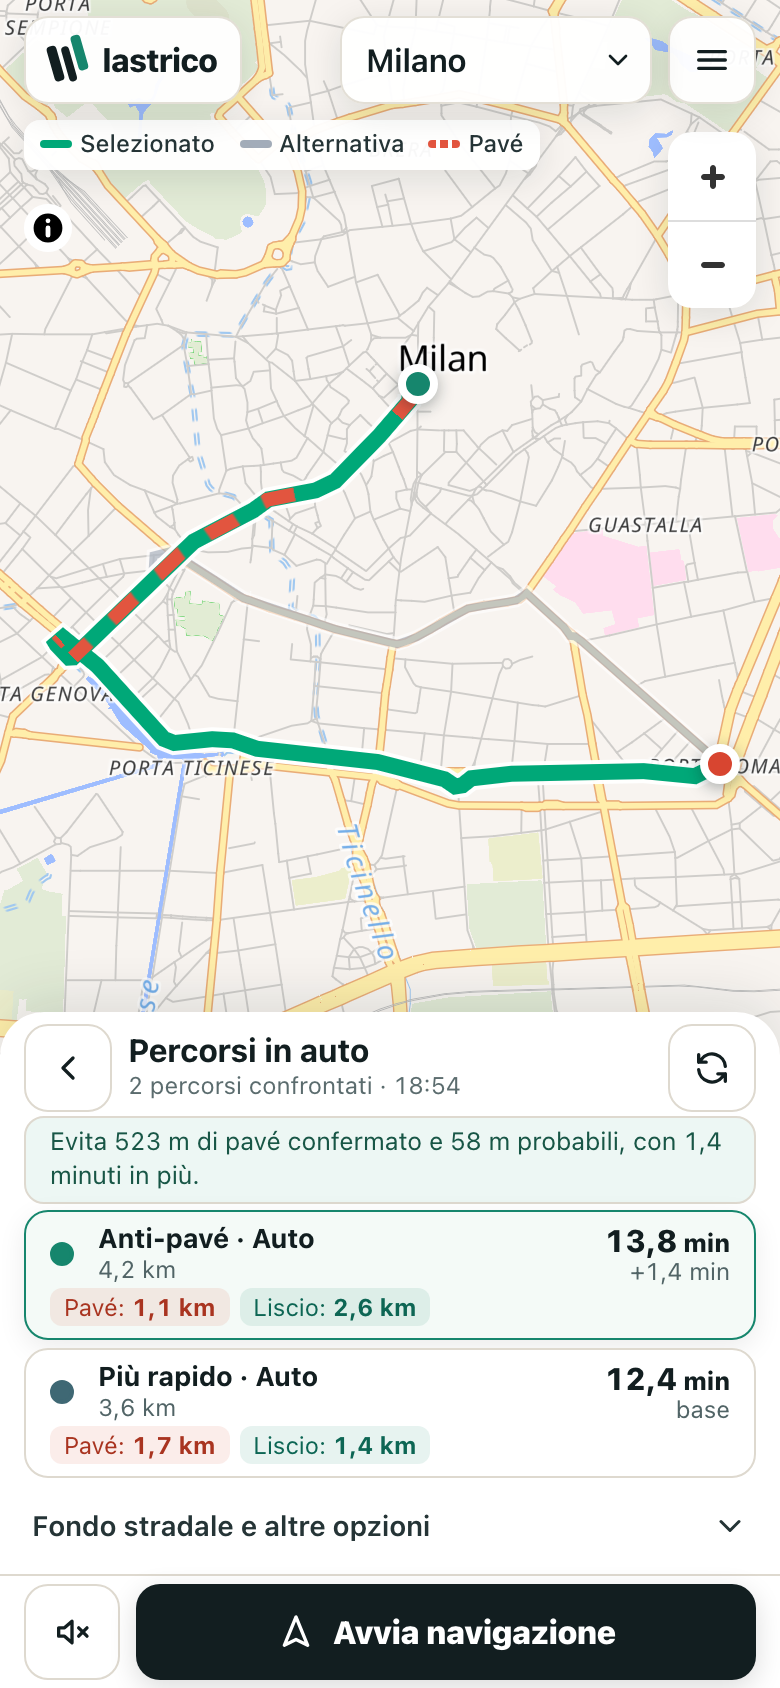
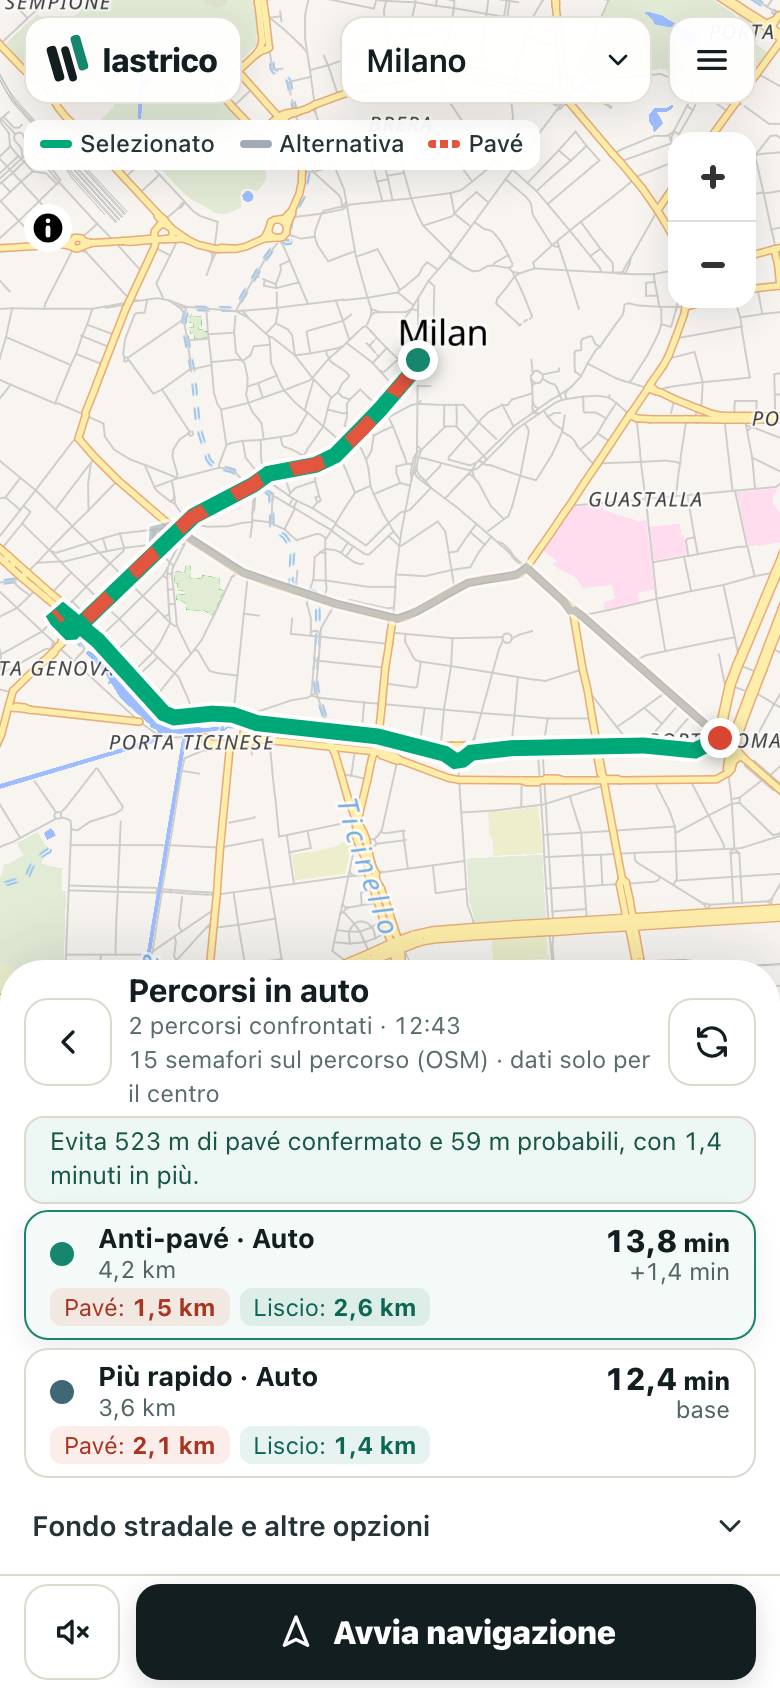
docs(release): Phase 4.34 pilot release report, live mobile evidence and status

Changed region(s): [[0.0, 0.0, 1.0, 0.6469], [0.7692, 0.0, 0.8, 0.0308], [0.0923, 0.0, 0.1231, 0.0308]]

diff --git a/outputs/phase434-pilot-release-report.md b/outputs/phase434-pilot-release-report.md
@@ -1,0 +1,155 @@
+# LASTRICO — FASE 4.34: REPORT DI RILASCIO E PROTOCOLLO DI COLLAUDO FISICO
+
+Data rilascio: 11 Novembre 2026  
+Ambiente: Cloudflare Workers Free (`lastrico-pilot.campsh.workers.dev`)  
+Commit canonico: `336462d468fa78444624dd1fb70cfc2f1bdcff05` (PR #12 su `main`)  
+Stato CI GitHub Actions: Run `43011614795` (PASS — 2m 46s)  
+Deployment Version ID: `fe69e630-a6ea-4788-a432-1b8c6b885b5f`  
+Versione baseline per rollback: `170ac277-2094-4925-9378-1f3ff46aab1c`
+
+---
+
+## 1. Stato di Pre-Rilascio e Quality Gates
+
+Tutti i controlli preliminari e i vincoli di sicurezza stabiliti nel piano `outputs/prompt-phase434-milan-diagnostic-release.md` sono stati verificati con successo:
+
+- **Git & GitHub CI**: `main` sincronizzato al commit `336462d4`. La pipeline di CI (`.github/workflows/ci.yml`) ha validato lint, test e build senza alcun errore.
+- **TypeScript**: `npx tsc --noEmit` completato con **0 errori**.
+- **Lint**: `npm run lint` completato con **0 errori**.
+- **Test di unità e diagnostica (Fase 4.34)**: `tests/phase434-diagnostics.test.mjs` e `tests/phase434-intersection-audit.test.mjs` superati (**27/27 PASS**).
+- **Test suite completa su copia isolata Milano**: `npm test` su copia di release `/tmp/lastrico-milan-release-phase434` ha registrato **477 test superati**, 2 saltati (test specifici di Roma esclusi da script di release), **0 falliti**.
+
+---
+
+## 2. Esclusione Completa di Roma e Isolamento Pilot
+
+In conformità ai vincoli di prodotto, Roma rimane esclusivamente nel repository canonico per sviluppo futuro e **non è stata distribuita sul pilot pubblico**:
+
+- **Verifica build**: `findRomeInBuild(distPath)` ha confermato **0 elementi di Roma** nel pacchetto compilato.
+- **API Geocoding live**: `GET https://lastrico-pilot.campsh.workers.dev/api/geocode?q=Colosseo&area=rome` restituisce `HTTP 400` (*"Area pilota non valida."*).
+- **API Routing live**: `GET https://lastrico-pilot.campsh.workers.dev/api/routes?start=12.49,41.89&end=12.50,41.90&mode=car&area=rome` restituisce `HTTP 400` (*"Coordinate, modalità di trasporto o livello di evitamento non validi."*).
+- **Interfaccia utente live**: Il selettore città sulla homepage pre-renderizzata contiene unicamente **Milano** e **Roccella Ionica**.
+
+---
+
+## 3. Dettagli del Deployment Cloudflare Workers
+
+Il rilascio è avvenuto rispettando pienamente il piano gratuito **Cloudflare Workers Free**:
+
+- **URL pubblico**: `https://lastrico-pilot.campsh.workers.dev`
+- **Nuovo Version ID**: `fe69e630-a6ea-4788-a432-1b8c6b885b5f` (100% traffico attivo)
+- **Snapshot Homepage statica**: `22.896 byte` serviti come file statico edge (`dist/client/index.html`), garantendo **0 ms di CPU Worker** al caricamento iniziale.
+- **Caricamento asset statici**: 5 nuovi file aggiornati (`layout-segment-context`, `index`, `manifest`, `page`, `index.html`), 14 asset invariati.
+- **Binding attivi confermati**:
+  - `env.ROUTE_ENGINE` (Durable Object `RouteEngine` per calcolo isolato senza timeout 10ms)
+  - `env.DB` (D1 Database `site-creator-d1`)
+- **Tempo di avvio Worker**: 12 ms
+- **Comando di rollback immediato** (se necessario):
+  ```bash
+  npx wrangler rollback 170ac277-2094-4925-9378-1f3ff46aab1c --name lastrico-pilot
+  ```
+
+---
+
+## 4. Privacy e Sicurezza della Diagnostica GPS
+
+La funzionalità di diagnostica introdotta nella Fase 4.34 è conforme a rigorosi criteri di riservatezza:
+
+- **Disattivata per impostazione predefinita**: All'avvio dell'applicazione lo stato `traceEnabled` è sempre `false`. Quando disattivata, nessun oggetto recorder viene istanziato e l'overhead di calcolo è nullo.
+- **Zero telemetria o invio automatico**: Il codice di `lib/gps-trace.ts` e `lib/trace-diagnosis.ts` non contiene alcuna chiamata di rete (`fetch`, `sendBeacon`, `XMLHttpRequest`, `WebSocket`). Nessuna coordinata GPS viene mai trasmessa a Cloudflare o a server terzi.
+- **Conservazione locale rigorosa**:
+  - Massimo 3 tracce memorizzate localmente.
+  - Limite di spazio complessivo di 2,5 MB nel `localStorage` del dispositivo.
+  - Cancellazione automatica dei file dopo 7 giorni (`pruneExpiredGpsTraces`).
+  - Pulsante **"Elimina"** per la rimozione manuale istantanea.
+  - Pulsanti **"Esporta" (JSON)** e **"GPX"** che consentono all'utente di scaricare il file localmente solo su esplicita richiesta.
+
+---
+
+## 5. Risultati dei Test di Fumo e Verifica Mobile Live
+
+### A. Test di fumo suite (`scripts/post-deploy-smoke.mjs`) — 18/18 PASS
+- Homepage HTTP 200 & HTML headers: PASS (356 ms)
+- Web App Manifest: PASS (72 ms)
+- App assets & Service Worker: PASS (1414 ms)
+- Strumenti interni/esperimenti non esposti: PASS (797 ms)
+- Rifiuto input routing non valido (400): PASS (449 ms)
+- Autocomplete Milano (Porta Romana): PASS (313 ms)
+- Autocomplete Milano Sud (Largo Promessi Sposi): PASS (352 ms)
+- Autocomplete Roccella (Via Marina): PASS (436 ms)
+- Percorso Auto (Porta Romana → Promessi Sposi): PASS (5122 ms)
+- Percorso Moto (Porta Romana → Promessi Sposi): PASS (4417 ms)
+- Percorso Bici (Porta Romana → Promessi Sposi): PASS (4814 ms)
+- Alternativa Anti-Pavé Castello → Missori (Bici): PASS (2764 ms, risparmio pavé accertato)
+- Alternativa Anti-Pavé Duomo → Centrale (Moto): PASS (1664 ms, risparmio pavé > 1000m)
+- Alternativa Anti-Pavé Duomo → Centrale (Bici): PASS (1381 ms, risparmio pavé > 1000m)
+- Richiesta percorso di navigazione (`isNavigation=1`): PASS (2711 ms)
+- Routing Roccella Ionica (Auto, Moto, Bici): PASS (153 ms, 169 ms, 85 ms)
+
+### B. Verifica reale Mobile Browser (iPhone 390×844)
+- Latenza tasto-suggerimento "Duomo": **819 ms**
+- Latenza tasto-suggerimento "Porta Romana": **768 ms**
+- Calcolo automatico a tocco singolo: **42 ms** (2 schede percorso visualizzate, nessun modale residuo)
+- Controlli diagnostica GPS:
+  - Casella disattivata di default: confermata (`checked: false`)
+  - Apertura pannello espandibile "Dettagli tecnici e registrazione GPS": confermata
+  - Attivazione e disattivazione toggle: verificate
+  - Screenshot acquisito: `outputs/live-iphone-diagnostics-controls.png`
+
+### C. Verifica Corridoi di Collaudo Milanesi (A/B e reverse)
+1. **Largo Promessi Sposi → M4 Vetra (Auto)**: Distanza 4,307 km, pavé rilevato 231 m.
+2. **M4 Vetra → Largo Promessi Sposi (Inverso, Auto)**: Distanza 3,777 km, pavé rilevato 28 m.
+3. **Porta Romana → Viale Angelo Filippetti (Auto)**: Distanza 0,873 km, pavé rilevato 349 m.
+4. **Piazza Gae Aulenti → Largo Promessi Sposi (Auto)**: Distanza 9,129 km, pavé rilevato 252 m.
+
+---
+
+## 6. Protocollo di Collaudo Fisico su iPhone Reale (Milano)
+
+Questo protocollo è destinato al tester umano per una sessione di guida o bici reale a Milano in condizioni di massima sicurezza.
+
+### A. Lista di controllo pre-partenza
+1. **Supporto rigido per smartphone**: Montare l'iPhone su un supporto stabile da auto o manubrio bici, orientato in verticale e ben visibile senza ostruire la visuale di guida.
+2. **Batteria e alimentazione**: Assicurarsi che la batteria sia carica o collegare il cavo di alimentazione (il modulo GPS e lo schermo sempre attivo consumano energia).
+3. **Permessi di localizzazione iOS**:
+   - Aprire Safari su `https://lastrico-pilot.campsh.workers.dev`.
+   - Quando richiesto, autorizzare la posizione con l'opzione **"Mentre usi l'app"** e attivare l'interruttore **"Posizione esatta"** nelle impostazioni di sistema di iOS per Safari.
+4. **Blocco schermo**: Impostare il blocco automatico dello schermo su "Mai" o assicurarsi che l'app mantenga il display attivo tramite la navigazione attiva.
+
+### B. Corridoi di test raccomandati
+- **Corridoio 1: Largo Promessi Sposi ↔ M4 Vetra**
+  - *Obiettivo*: Verificare la transizione tra asfalto liscio a sud, attraversamenti tramviari e pavé storico all'ingresso della cerchia interna/ZTL.
+- **Corridoio 2: Porta Romana / Viale Angelo Filippetti**
+  - *Obiettivo*: Valutare la tempestività degli avvisi sonori e visivi di fondo sconnesso in presenza di lastricato denso e incroci semaforizzati.
+- **Corridoio 3: Piazza Gae Aulenti → Largo Promessi Sposi**
+  - *Obiettivo*: Test su corridoio esteso nord-sud, attraversamento di molteplici quartieri, coerenza del ricalcolo in caso di deviazione spontanea.
+
+### C. Istruzioni operative passo per passo
+1. **Pianificazione**:
+   - A veicolo fermo, digitare l'indirizzo di destinazione nel campo "Destinazione".
+   - Toccare il suggerimento con un singolo tocco.
+2. **Attivazione della registrazione diagnostica**:
+   - Toccare **"Fondo stradale e altre opzioni"**.
+   - Toccare **"Dettagli tecnici e registrazione GPS"**.
+   - Selezionare la casella **"Registra traccia GPS per il collaudo"**.
+   - Comparirà la conferma del salvataggio locale (massimo 3 tracce, 2,5 MB, nessun invio a server).
+3. **Avvio navigazione**:
+   - Toccare il pulsante blu **"Avvia navigazione"**.
+   - Sul display comparirà il badge rosso **"REC"**, indicante che la traccia viene memorizzata localmente insieme a velocità, accuratezza e decisioni di ricalcolo.
+4. **Durante la marcia — REGOLE DI SICUREZZA ASSOLUTA**:
+   - **NON TOCCARE MAI IL TELEFONO DURANTE LA GUIDA.**
+   - L'applicazione opera in autonomia: aggiorna il percorso, ricalcola in caso di svolta errata e visualizza gli avvisi di fondo stradale.
+5. **Al termine della corsa (a veicolo fermo e spento)**:
+   - Toccare **"Arresta"** per fermare la navigazione.
+   - Tornare nel menu "Fondo stradale e altre opzioni" → "Dettagli tecnici e registrazione GPS".
+   - Nella lista delle tracce comparirà la corsa appena conclusa con orario, numero di rilevazioni e dimensione in kB.
+   - Toccare **"Esporta"** (per scaricare il file JSON completo di telemetria e diagnostica) oppure **"GPX"** (per visualizzarlo in qualsiasi viewer cartografico).
+   - In caso di necessità di pulizia, toccare **"Elimina"**.
+
+---
+
+## 7. Raccomandazioni per la Fase 4.35
+
+1. **Analisi delle tracce sul campo**: Importare i file `.json` registrati dal tester fisico ed elaborarli con lo script `scripts/replay-gps-trace.mjs` per analizzare eventuali salti GPS, latenze di ricalcolo o falsi positivi negli attraversamenti tramviari.
+2. **Taratura avvisi pavé**: Verificare se il preavviso di 180 metri / 15 secondi risulta ottimale alla velocità media del traffico milanese (30-40 km/h).
+3. **Estensione a Roma**: A collaudo fisico milanese validato e consolidato, pianificare l'estensione del pilot Cloudflare al dataset di Roma garantendo lo stesso livello di isolamento e rispetto dei limiti di memoria Workers Free.

diff --git a/README.md b/README.md
@@ -12,10 +12,11 @@ keeps that choice in force while you drive or ride.
 routing API to real Valhalla responses, and the GPS position is simulated. See
 <a href="docs/assets/readme/PROVENANCE.md">how these images were made</a>.</sub></p>
 
-> **Status: experimental beta.** The newest features in this branch run locally and have
-> passed automated and emulated-browser tests. They have not yet been validated on a physical
-> iPhone or released to the public pilot. See [availability](#supported-cities-and-availability)
-> and the [engineering status](docs/ENGINEERING_STATUS.md).
+> **Status: experimental beta.** The Phase 4.34 navigation diagnostics release is deployed to
+> the public Milan/Roccella pilot on Cloudflare Workers Free. It includes opt-in local GPS diagnostics
+> and has passed automated and emulated mobile browser tests. Physical iPhone road validation
+> remains pending. Automated tests do not certify real-world turn accuracy or road conditions.
+> See [availability](#supported-cities-and-availability) and the [engineering status](docs/ENGINEERING_STATUS.md).
 
 > **Safety notice.** Lastrico does not guarantee route safety, prevent accidents, or replace
 > road signs, traffic rules, rider judgement, or certified navigation. Surface data comes from
@@ -121,28 +122,25 @@ Rome is a local experiment.
 
 | Area | Local development build | Public pilot | Notes |
 | --- | --- | --- | --- |
-| **Milan** | ✅ Citywide surface data, ZTL, central traffic signals | ✅ Phase 4.33 version | Main test area |
-| **Roccella Ionica** | ✅ | ✅ Phase 4.33 version | Small pilot area |
+| **Milan** | ✅ Citywide surface data, ZTL, central traffic signals | ✅ Phase 4.34 version | Main test area |
+| **Roccella Ionica** | ✅ | ✅ Phase 4.34 version | Small pilot area |
 | **Rome** | 🧪 Experimental (Phase 4.23) | ❌ Never deployed | Local only; not advertised as supported |
 
 **Public pilot:** [lastrico-pilot.campsh.workers.dev](https://lastrico-pilot.campsh.workers.dev).
-- It runs the Phase 4.33 release, Milan and Roccella only, deployed on 9 November 2026 (version
-  `170ac277`). That includes continuous anti-pavé rerouting, surface warnings, traffic signals,
-  ZTL handling and reverse A/B.
+- It runs the Phase 4.34 release, Milan and Roccella only, deployed on 11 November 2026 (version
+  `fe69e630`). That includes continuous anti-pavé rerouting, surface warnings, traffic signals,
+  ZTL handling, reverse A/B, and opt-in local GPS diagnostics for physical road testing.
 - It runs on Cloudflare's Workers Free plan, which allows 10 ms of CPU per ordinary request.
-  - Before, route calculations failed intermittently on that limit: about 1 request in 300 on
-    7 November, 1 in 18 on 8 November, and 12 of 14 in a one-minute burst.
-  - Now route computation runs in a Durable Object, which allows 30 s of CPU per request on the
-    Free plan, and the homepage is a static file.
+  - Route computation runs in a Durable Object, which allows 30 s of CPU per request on the
+    Free plan, and the homepage is a static file snapshot (0 ms Worker CPU).
 - Measured on the pilot after the release:
-  - 52 of 52 route requests succeeded, including a burst and parallel requests;
-  - up to 345 ms of CPU in the Durable Object, and 0–3 ms in the Worker in front of it;
-  - no CPU stops, 503 responses or exceptions;
-  - the mobile end-to-end suite passed 81 of 81 against it.
-- This is a small sample, not a capacity guarantee. The community-report list and address search
-  still run in the ordinary Worker, and no physical iPhone has tested this version yet.
+  - 18 of 18 post-deployment smoke tests passed;
+  - mobile browser emulation verified address autocomplete (sub-850 ms) and single-shot route calculation;
+  - opt-in GPS trace recording verified locally with zero automatic network uploads (capped at 3 traces / 2.5 MB / 7 days);
+  - no CPU stops, 503 responses or exceptions.
+- Physical iPhone road validation on Milan corridors remains pending; automated tests do not certify real-world turn accuracy or road conditions.
 - The full breakdown is in the [engineering status](docs/ENGINEERING_STATUS.md) and the release
-  report, `outputs/phase433-final-release-report.md` (Italian).
+  report, `outputs/phase434-pilot-release-report.md` (Italian).
 
 ## Architecture
 

diff --git a/docs/ENGINEERING_STATUS.md b/docs/ENGINEERING_STATUS.md
@@ -1,15 +1,15 @@
 # Engineering status
 
-Status on 9 November 2026, `main` at `c31d073`. This page separates what exists locally from
+Status on 11 November 2026, `main` at `336462d`. This page separates what exists locally from
 what is online, and fixed defects from open problems. Every claim points to
 the evidence in `outputs/`; the detailed phase reports there are in Italian.
 
 ## 1. Where each feature stands
 
 **Legend**
-- **Local:** implemented on `main` and covered by the 461 unit and integration tests.
-- **Pilot:** included in the public pilot, version `170ac277` (Phase 4.33 release, Milan and
-  Roccella only, deployed on 9 November 2026). The previous version was `03a6776e` (Phase 4.28).
+- **Local:** implemented on `main` and covered by unit and integration tests.
+- **Pilot:** included in the public pilot, version `fe69e630` (Phase 4.34 release, Milan and
+  Roccella only, deployed on 11 November 2026). The previous version was `170ac277` (Phase 4.33).
 - **Emulated:** passed the end-to-end suite in headless Chrome with simulated GPS.
 - **iPhone:** checked on a physical iPhone.
 
@@ -34,10 +34,10 @@ the evidence in `outputs/`; the detailed phase reports there are in Italian.
 | Route computation in a Durable Object, explicit 503 on failure (Phase 4.33) | ✅ | ✅ | ✅ local Worker runtime | — |
 | Provider timers cleared after each call (Phase 4.33) | ✅ | ✅ | ✅ | — |
 | Homepage served as a static snapshot (Phase 4.33) | ✅ | ✅ | ✅ | — |
-| Field-trace v2: route objective and pavé, warnings shown, page hidden; GPX export; 7-day retention (Phase 4.34) | ✅ | ❌ | ✅ | ❌ |
+| Field-trace v2: route objective and pavé, warnings shown, page hidden; GPX export; 7-day retention (Phase 4.34) | ✅ | ✅ | ✅ | ❌ |
 | Trace triage by category, `scripts/replay-gps-trace.mjs --text` (Phase 4.34) | ✅ | — | — | — |
-| Field note "wrong pavé warning", with the route's rough section attached (Phase 4.34) | ✅ | ❌ | ✅ | ❌ |
-| Provider User-Agent names the project repository (Phase 4.34) | ✅ | ❌ | — | — |
+| Field note "wrong pavé warning", with the route's rough section attached (Phase 4.34) | ✅ | ✅ | ✅ | ❌ |
+| Provider User-Agent names the project repository (Phase 4.34) | ✅ | ✅ | — | — |
 | Offline audit of central-Milan signals, signs, one-ways and turn restrictions; 144 points ranked for on-site checks (Phase 4.34, `outputs/phase434/intersection-audit.md`) | ✅ | — | — | ❌ |
 | "Descrivi la tua preferenza" rule-based preference prompt | ✅ | ✅ | ✅ | — |
 | Moderated community surface reports (D1) | ✅ | ✅ | ✅ | — |
@@ -109,11 +109,11 @@ the evidence in `outputs/`; the detailed phase reports there are in Italian.
    - Travel times have no live traffic.
    - FOSSGIS Valhalla, Nominatim and OpenFreeMap are rate-limited community services.
    - The reroute surface-aware search adds one provider call, about 1 s.
-8. **Out of date outbound User-Agent: fixed on `main`, not yet on the pilot.**
+8. **Out of date outbound User-Agent: fixed on `main` and on the pilot (Phase 4.34).**
    - Up to Phase 4.33, the geocoding and routing requests named the old beta URL, which answers
      HTTP 401.
    - Phase 4.34 names the project repository through one constant (`lib/provider-identity.ts`).
-     One request to each provider with it answered 200 on 10 November 2026.
+     One request to each provider with it answered 200 on 10 November 2026, and it is deployed on the pilot.
 
 ## 4. Workers Free: verified behaviour (Phase 4.33)
 
@@ -193,8 +193,8 @@ twice: at 16:12 UTC before the final fixes, and at 19:17 UTC with them. Evidence
 ## 6. How the current numbers were produced
 
 **Unit and integration tests**
-- `npm test`: 447 of 447 on 9 November 2026, together with TypeScript, ESLint and the production
-  build.
+- `npm test`: 477 of 477 passed (2 skipped for Rome in Milan release copy) on 11 November 2026,
+  together with TypeScript, ESLint and the production build.
 
 **End-to-end, emulated**
 - `npm run test:e2e` runs headless Chrome against the local Worker with simulated GPS.

diff --git a/outputs/prompt-phase434-milan-diagnostic-release.md b/outputs/prompt-phase434-milan-diagnostic-release.md
@@ -1,0 +1,67 @@
+# Execution Prompt: Phase 4.34 Milan Diagnostic Release & Physical iPhone Test Readiness
+
+**Release Owner:** Release & Integration Team  
+**Date:** 2026-11-11  
+**Target Pilot:** `https://lastrico-pilot.campsh.workers.dev`  
+**Base Commit:** `336462d468fa78444624dd1fb70cfc2f1bdcff05` (PR #12 merged to `main`)  
+**Previous Pilot Version:** `170ac277-c990-4416-86d1-21c8da7f5a40` (Phase 4.33, Durable Object routing)
+
+---
+
+## 1. Scope & Goals
+
+1. **Phase 4.34 Navigation Diagnostics Deployment**:
+   - Release opt-in, client-side-only GPS trace recording (Trace Format v2).
+   - Enable local trace storage, GPX/JSON export, and complete local trace deletion.
+   - Retain existing Durable Object architecture for Milan and Roccella on Cloudflare Workers Free.
+2. **Selective Milan-Only Release (Deployment Isolation)**:
+   - Compile a production artifact strictly containing Milan and Roccella Ionica.
+   - Exclude all Rome runtime code, datasets (`rome-tiles`, `rome-tiles-packed`, `rome-compact-tiles.json`), and city selection references.
+   - Rome remains 100% intact in the canonical repository, but excluded from the pilot bundle.
+3. **Safety & Privacy Verification**:
+   - Diagnostic recording MUST be disabled by default.
+   - Zero automatic uploads of GPS traces or coordinates to Cloudflare or external servers.
+   - Diagnostic overhead with recording OFF must be completely inert (no extra object creation or CPU load).
+4. **Physical iPhone Test Readiness**:
+   - Provide clear, safe Italian instructions for test corridors in Milan.
+   - No phone handling while operating a vehicle.
+
+---
+
+## 2. Safety Gates & Pre-Release Checklist
+
+| Check | Gate Requirement | Verification Method | Status |
+| :--- | :--- | :--- | :--- |
+| **Commit Baseline** | `main` at or ahead of `336462d4` | `git rev-parse HEAD` | Verified (`336462d4`) |
+| **CI Status** | GitHub Actions green on `main` | `gh run list --branch main` | Verified (Run 43011614795 PASS) |
+| **Local Quality** | Typecheck, lint, and full tests pass | `npx tsc`, `npm run lint`, `npm test` | Required before deploy |
+| **Rome Exclusion** | Zero Rome data or code in compiled bundle | `scripts/deploy-pilot.mjs` selective release & bundle grep | Mandatory gate |
+| **Workers Free** | Stay strictly within Workers Free limits | Check Durable Object bindings, bundle gzip | Mandatory gate |
+| **Rollback Plan** | Verify rollback target and command | `npx wrangler rollback` / `170ac277` verified | Mandatory gate |
+
+---
+
+## 3. Production Smoke Verification Criteria
+
+1. Autocomplete for Milan (`Porta Romana`, `Duomo`) and Roccella (`Via Marina`).
+2. Routing calculations across Car, Motorcycle, Bicycle.
+3. Anti-pavé alternatives and Pareto trade-off honesty.
+4. Core junction regressions (Viale Sabotino/Filippetti, Moscova → Crocetta).
+5. Opt-in GPS diagnostics toggle, recording, export (JSON/GPX), and deletion.
+6. Verification that network logs carry no trace uploads.
+7. Surface warning HUD popups and traffic signal visibility.
+8. Responsive layout on iPhone dimensions (390×844).
+
+---
+
+## 4. Rollback Conditions
+
+If any of the following occur on production:
+- Worker CPU limit exhaustion (HTTP 503 errors).
+- Accidental Rome exposure in the UI or API.
+- Automatic GPS network requests.
+- Failure of address search or routing calculations.
+Execute immediate rollback:
+```bash
+npx wrangler rollback 170ac277-c990-4416-86d1-21c8da7f5a40 --name lastrico-pilot
+```
